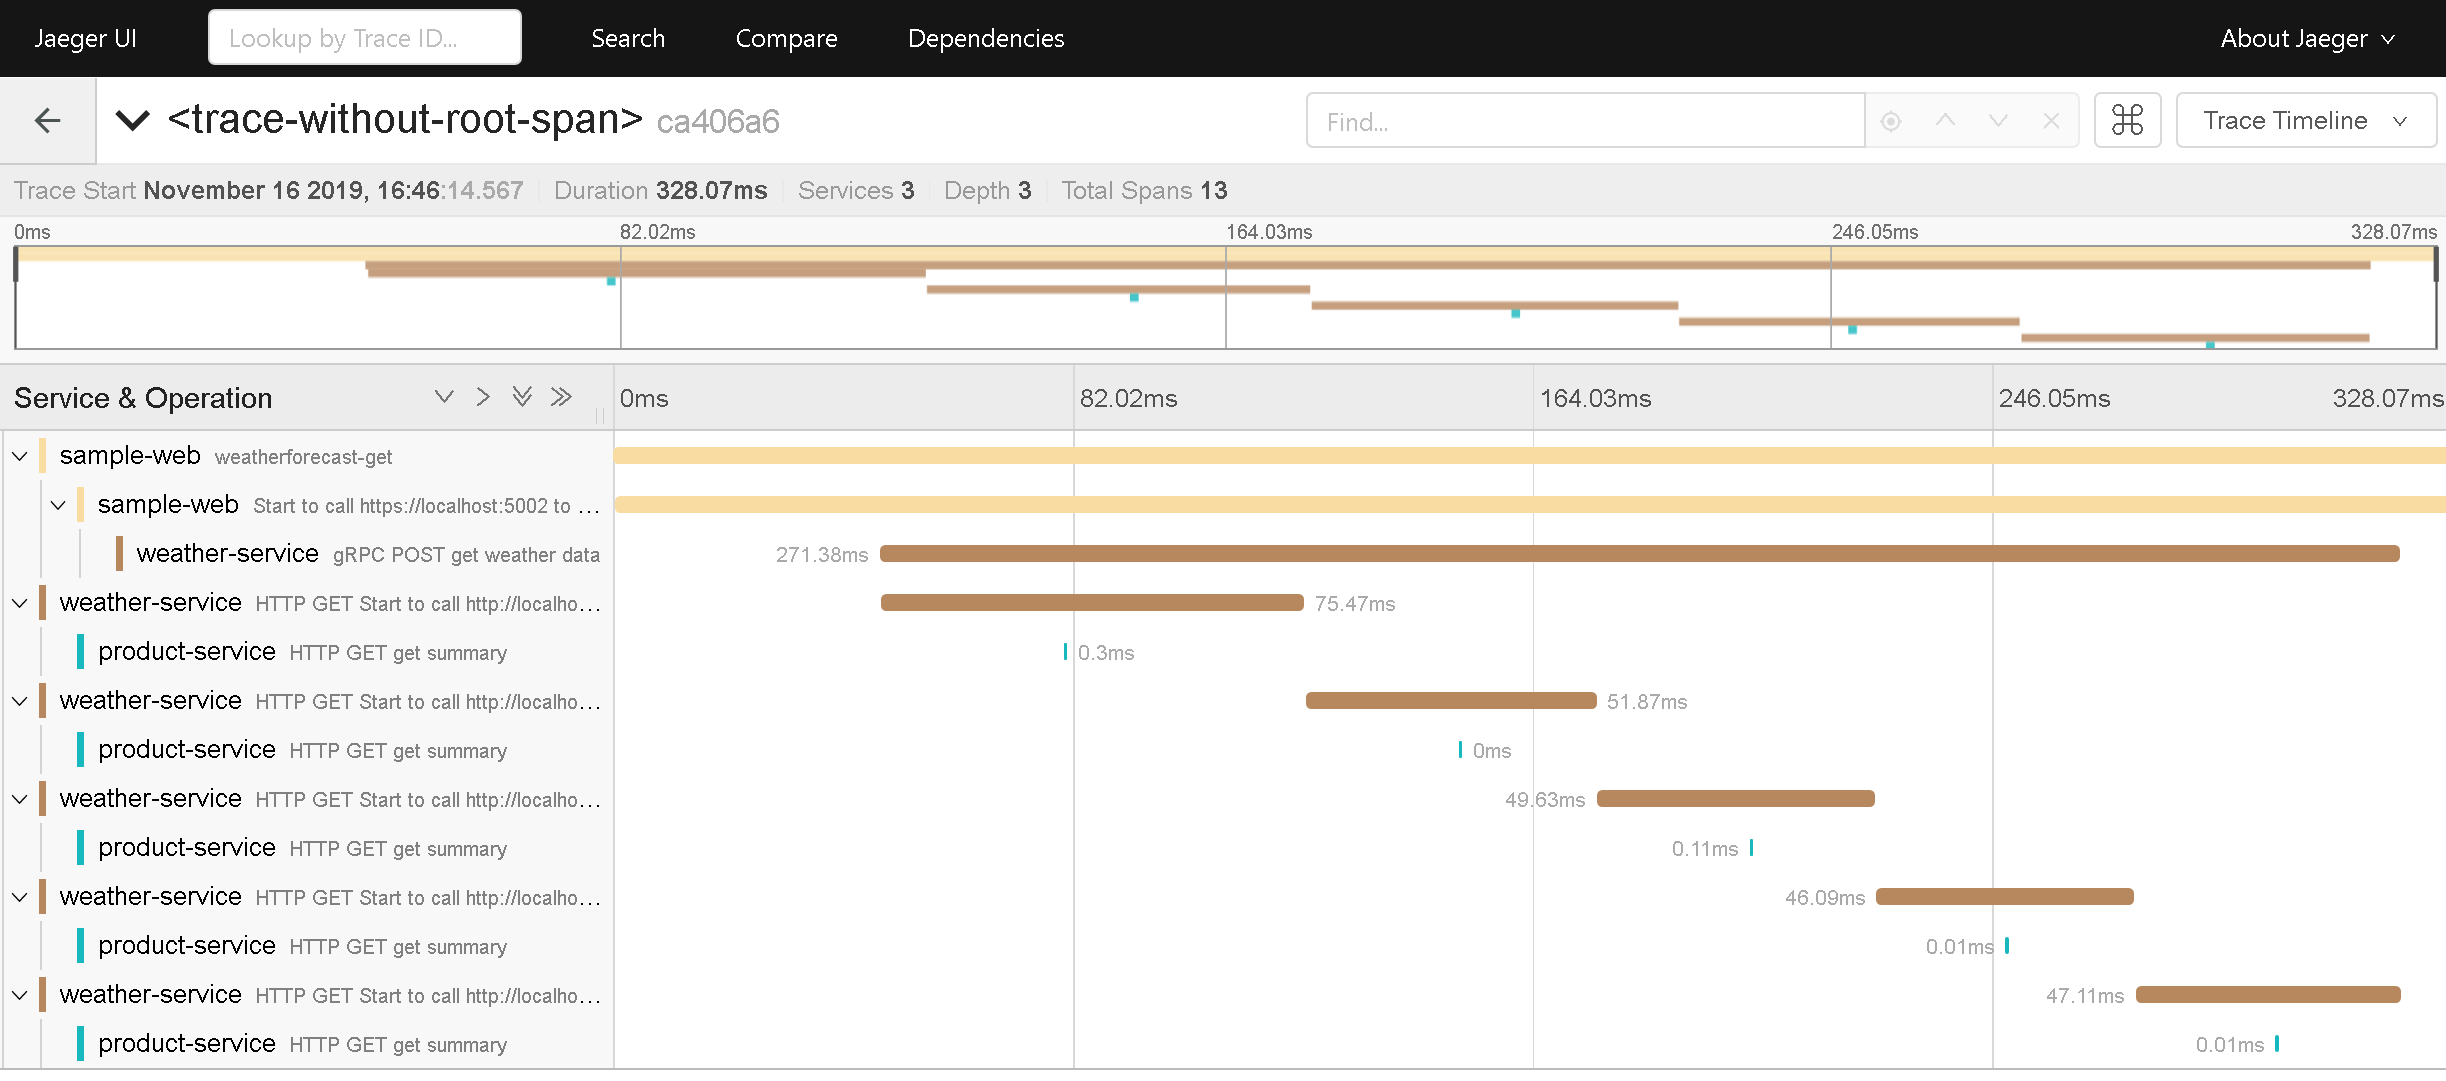
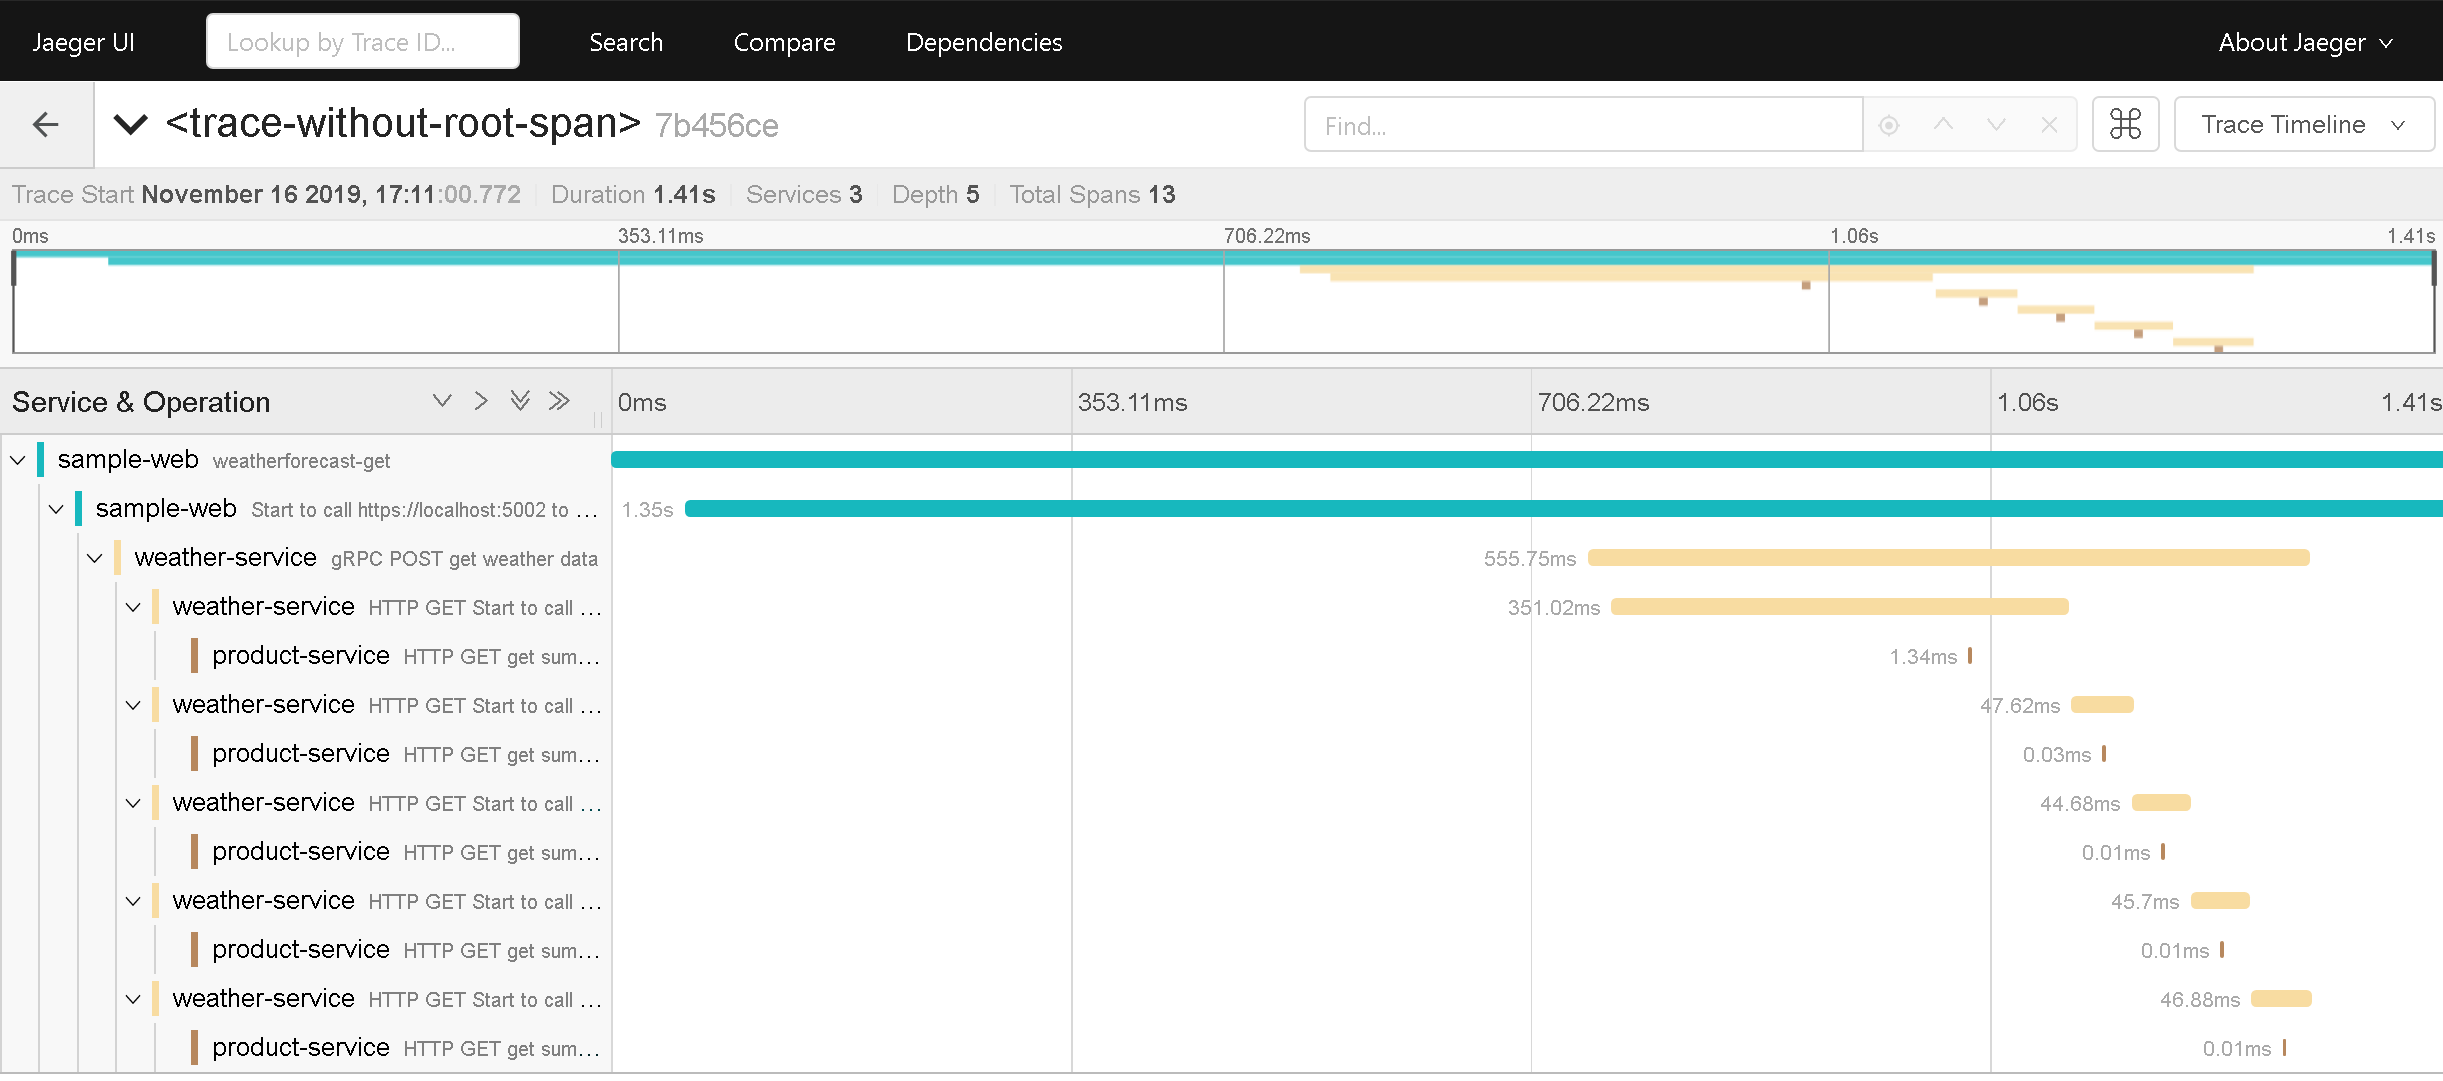
much better child span

diff --git a/src/WeatherService/Services/WeatherService.cs b/src/WeatherService/Services/WeatherService.cs
@@ -38,7 +38,7 @@ namespace WeatherService
             var dtos = Enumerable.Range(1, 5).Select(index => new WeatherDto
             {
                 TemperatureC = rng.Next(-20, 55),
-                Summary = GetSummaryAsync(tracer).Result // for demo only /*Summaries[rng.Next(Summaries.Length)]*/
+                Summary = GetSummaryAsync(tracer, incomingSpan).Result // for demo only
             });
 
             var result = new GetWeathersReply();
@@ -49,7 +49,7 @@ namespace WeatherService
             return Task.FromResult(result);
         }
 
-        private async Task<string> GetSummaryAsync(ITracer tracer)
+        private async Task<string> GetSummaryAsync(ITracer tracer, ISpan span)
         {
             var client = _clientFactory.CreateClient();
 
@@ -57,21 +57,25 @@ namespace WeatherService
 
             var outgoingRequest = new HttpRequestMessage(HttpMethod.Get, clientUrl);
 
-            var outgoingSpan = tracer.StartSpan($"HTTP GET Start to call {clientUrl} to get summary", SpanKind.Client);
-
-            if (outgoingSpan.Context.IsValid)
+            using (tracer.WithSpan(span))
             {
-                tracer.TextFormat.Inject(
-                    outgoingSpan.Context,
-                    outgoingRequest.Headers,
-                    (headers, name, value) => headers.Add(name, value));
+                var outgoingSpan = tracer.StartSpan($"HTTP GET Start to call {clientUrl} to get summary", SpanKind.Client);
+
+                if (outgoingSpan.Context.IsValid)
+                {
+                    tracer.TextFormat.Inject(
+                        outgoingSpan.Context,
+                        outgoingRequest.Headers,
+                        (headers, name, value) => headers.Add(name, value));
+                }
+
+                var result = await client.SendAsync(outgoingRequest);
+
+                outgoingSpan.End();
+
+
+                return await result.Content.ReadAsStringAsync();
             }
-
-            var result = await client.SendAsync(outgoingRequest);
-
-            outgoingSpan.End();
-
-            return await result.Content.ReadAsStringAsync();
         }
     }
 }
